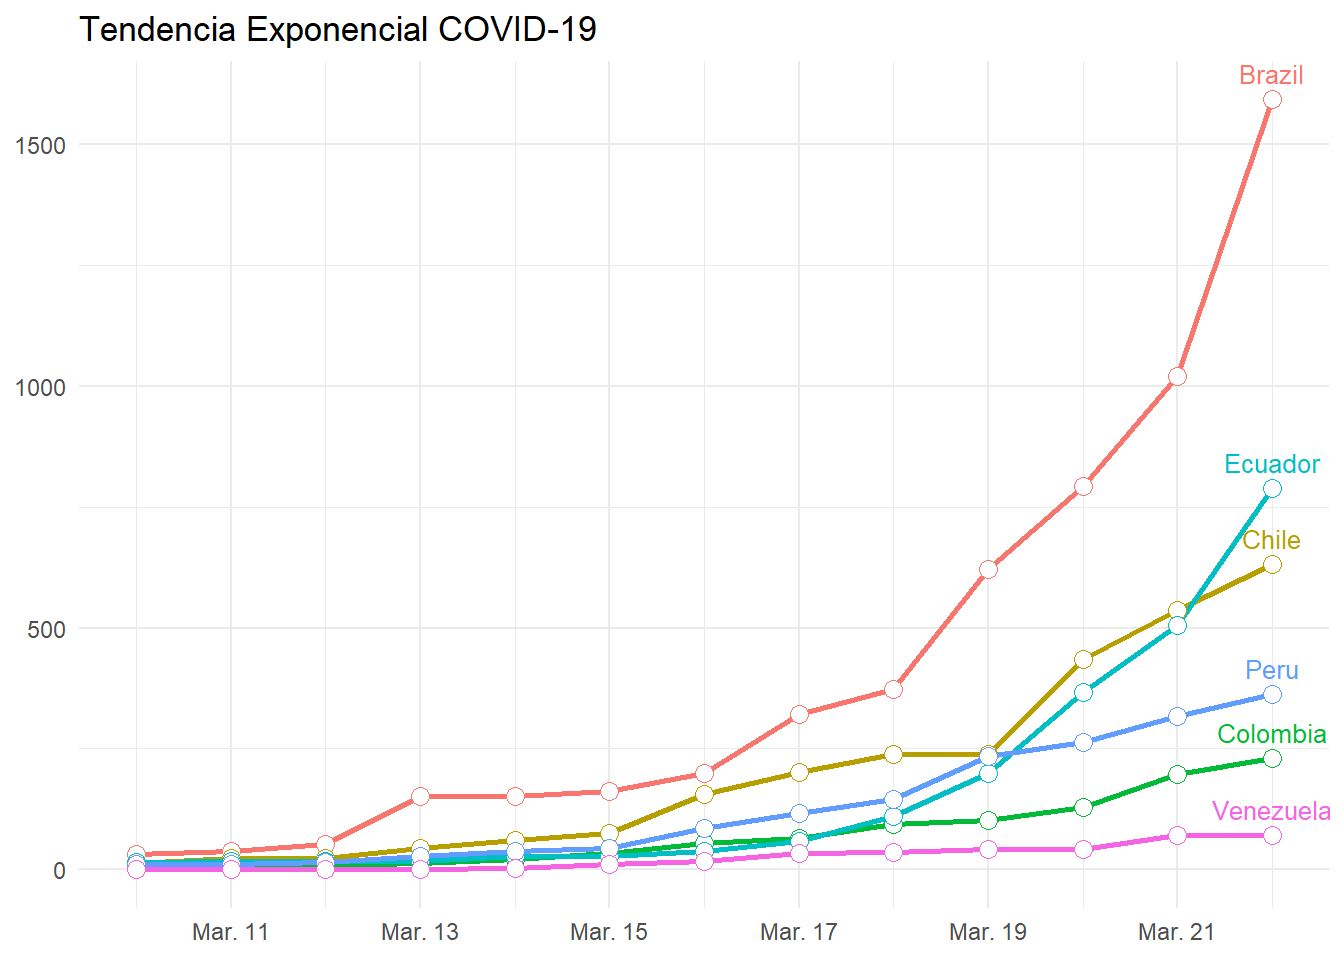
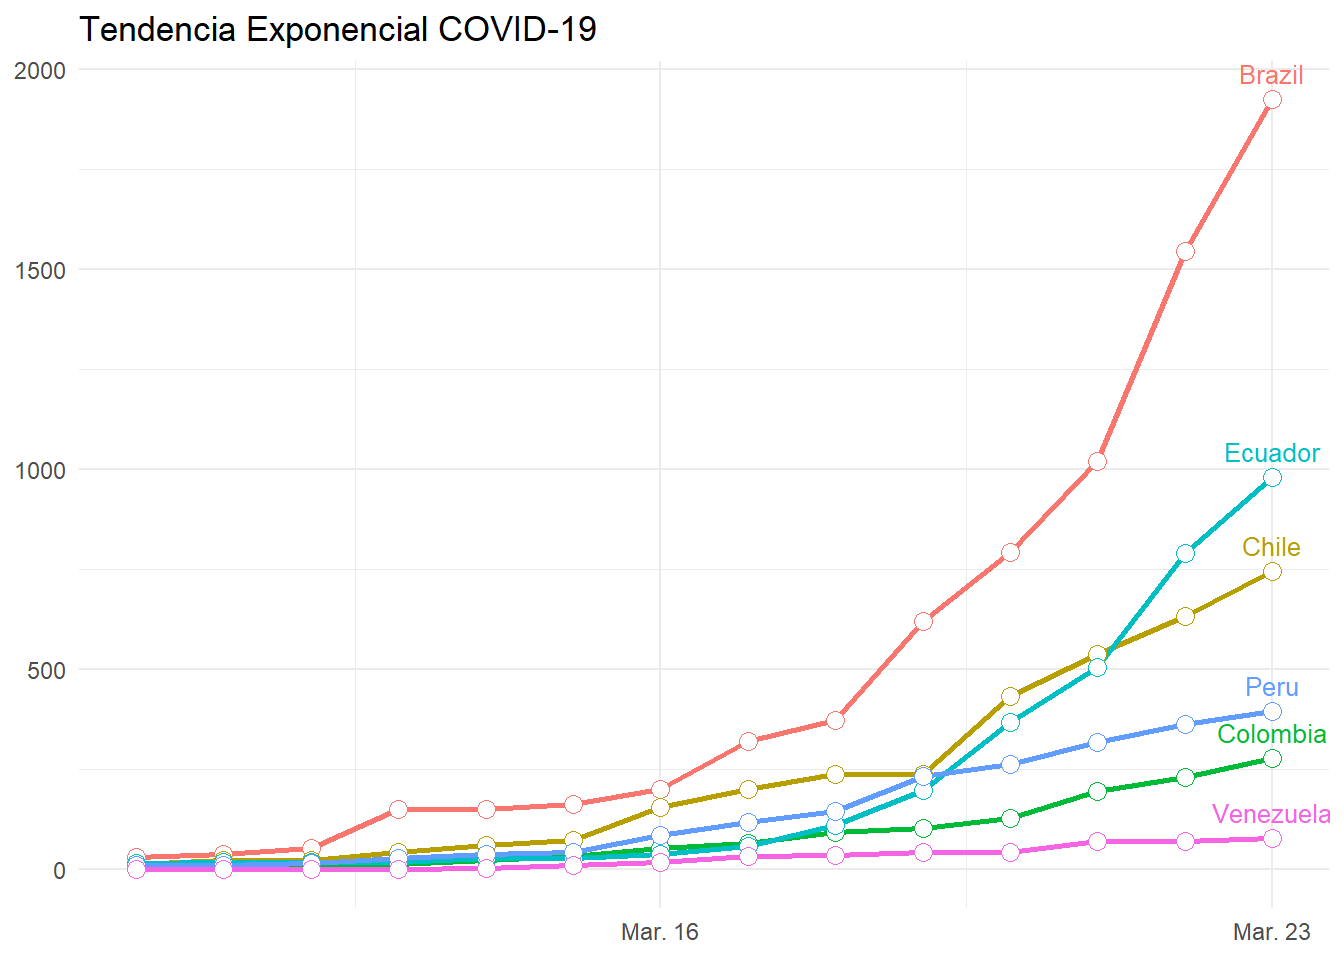
1ra Etapa 1.2

diff --git a/index.html b/index.html
@@ -12,7 +12,7 @@
 
 <meta name="author" content="Jorge David Morales" />
 
-<meta name="date" content="2020-03-23" />
+<meta name="date" content="2020-03-24" />
 
 <title>JD Website</title>
 
@@ -295,7 +295,7 @@ $(document).ready(function () {
 
 <h1 class="title toc-ignore">JD Website</h1>
 <h4 class="author">Jorge David Morales</h4>
-<h4 class="date">2020-03-23</h4>
+<h4 class="date">2020-03-24</h4>
 
 </div>
 
@@ -307,7 +307,7 @@ $(document).ready(function () {
 covid19 &lt;- read.csv(&quot;http://query.data.world/s/cdc5dussbvmp52xnluz6wvyntjn6am&quot;,
                     header = T, stringsAsFactors = F)</code></pre>
 <pre><code>##   Last_Report
-## 1  2020-03-22</code></pre>
+## 1  2020-03-23</code></pre>
 <table class="table table-striped table-hover table-condensed" style="margin-left: auto; margin-right: auto;">
 <thead>
 <tr>
@@ -318,16 +318,10 @@ Report_Date
 Country
 </th>
 <th style="text-align:right;position: sticky; top:0; background-color: #FFFFFF;">
-Active
-</th>
-<th style="text-align:right;position: sticky; top:0; background-color: #FFFFFF;">
 Confirmed
 </th>
 <th style="text-align:right;position: sticky; top:0; background-color: #FFFFFF;">
 Deaths
-</th>
-<th style="text-align:right;position: sticky; top:0; background-color: #FFFFFF;">
-Recovered
 </th>
 <th style="text-align:right;position: sticky; top:0; background-color: #FFFFFF;">
 New_Cases
@@ -337,140 +331,104 @@ New_Cases
 <tbody>
 <tr>
 <td style="text-align:left;">
-2020-03-22
+2020-03-23
 </td>
 <td style="text-align:left;">
 Brazil
 </td>
 <td style="text-align:right;">
-1566
+1924
 </td>
 <td style="text-align:right;">
-1593
+34
 </td>
 <td style="text-align:right;">
-25
-</td>
-<td style="text-align:right;">
-2
-</td>
-<td style="text-align:right;">
-572
+378
 </td>
 </tr>
 <tr>
 <td style="text-align:left;">
-2020-03-22
+2020-03-23
 </td>
 <td style="text-align:left;">
 Ecuador
 </td>
 <td style="text-align:right;">
-772
+981
 </td>
 <td style="text-align:right;">
-789
+18
 </td>
 <td style="text-align:right;">
-14
-</td>
-<td style="text-align:right;">
-3
-</td>
-<td style="text-align:right;">
-283
+192
 </td>
 </tr>
 <tr>
 <td style="text-align:left;">
-2020-03-22
+2020-03-23
 </td>
 <td style="text-align:left;">
 Chile
 </td>
 <td style="text-align:right;">
-623
-</td>
-<td style="text-align:right;">
-632
-</td>
-<td style="text-align:right;">
-1
-</td>
-<td style="text-align:right;">
-8
-</td>
-<td style="text-align:right;">
-95
-</td>
-</tr>
-<tr>
-<td style="text-align:left;">
-2020-03-22
-</td>
-<td style="text-align:left;">
-Peru
-</td>
-<td style="text-align:right;">
-357
-</td>
-<td style="text-align:right;">
-363
-</td>
-<td style="text-align:right;">
-5
-</td>
-<td style="text-align:right;">
-1
-</td>
-<td style="text-align:right;">
-45
-</td>
-</tr>
-<tr>
-<td style="text-align:left;">
-2020-03-22
-</td>
-<td style="text-align:left;">
-Colombia
-</td>
-<td style="text-align:right;">
-226
-</td>
-<td style="text-align:right;">
-231
+746
 </td>
 <td style="text-align:right;">
 2
 </td>
 <td style="text-align:right;">
-3
-</td>
-<td style="text-align:right;">
-35
+114
 </td>
 </tr>
 <tr>
 <td style="text-align:left;">
-2020-03-22
+2020-03-23
+</td>
+<td style="text-align:left;">
+Peru
+</td>
+<td style="text-align:right;">
+395
+</td>
+<td style="text-align:right;">
+5
+</td>
+<td style="text-align:right;">
+32
+</td>
+</tr>
+<tr>
+<td style="text-align:left;">
+2020-03-23
+</td>
+<td style="text-align:left;">
+Colombia
+</td>
+<td style="text-align:right;">
+277
+</td>
+<td style="text-align:right;">
+3
+</td>
+<td style="text-align:right;">
+46
+</td>
+</tr>
+<tr>
+<td style="text-align:left;">
+2020-03-23
 </td>
 <td style="text-align:left;">
 Venezuela
 </td>
 <td style="text-align:right;">
-55
-</td>
-<td style="text-align:right;">
-70
+77
 </td>
 <td style="text-align:right;">
 0
 </td>
 <td style="text-align:right;">
-15
-</td>
-<td style="text-align:right;">
-0
+7
 </td>
 </tr>
 </tbody>
